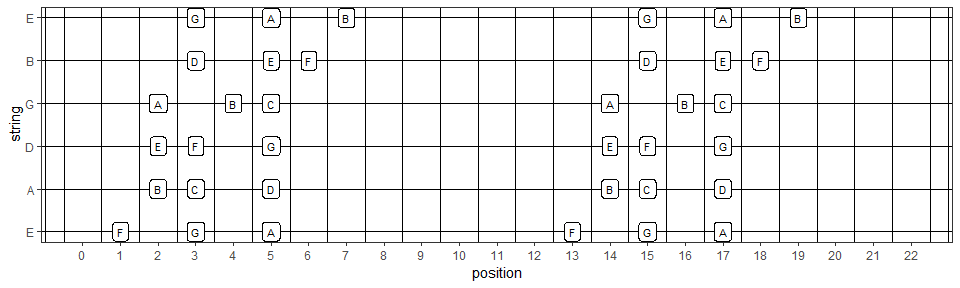
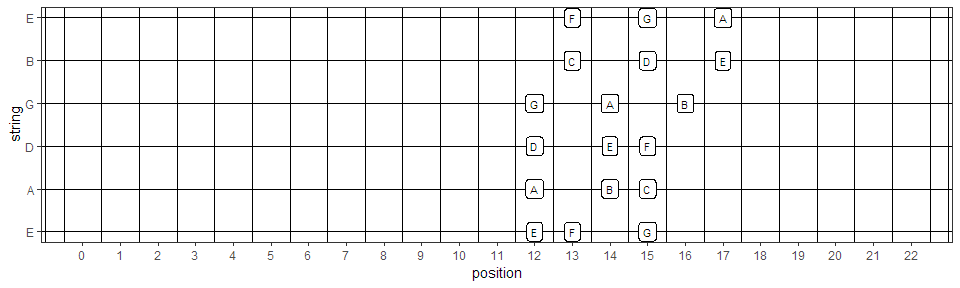
Updated readme and package

diff --git a/README.md b/README.md
@@ -6,6 +6,15 @@ Introduction
 
 Find the positioning of different modes on your guitar. Indicate which chords can be played in the choosen mode/tune and indicate the position of ground notes. Functions defined as R package complemented with a Shiny app for interactive usage.
 
+Installation
+------------
+
+Using devtools the package can be installed from github:
+
+install.packages("devtools")
+library(devtools)
+install\_github("RoJoRZ/GuitarModes")
+
 Package functionality
 ---------------------
 
@@ -17,10 +26,7 @@ Done:
 2.  GetPosition: Get all positions of a certain note (with flexible tuning)
 3.  GetMode: Get mode positions and tones (at standard tuning)
 4.  CombineModes: Start with a mode in a tune and get the positions of the other modes
-
-<!-- -->
-
-1.  GuitarPlot: Plot Guitar with flexible label size, number of frets, first and last fret to show
+5.  GuitarPlot: Plot Guitar with flexible label size, number of frets, first and last fret to show
 
 Below we give some examples of the core functions
 
@@ -81,78 +87,50 @@ GuitarPlot(Ionian3, labsize = 3)
 
 ![](README_files/figure-markdown_github/unnamed-chunk-5-1.png)
 
-Get and plot the Dorian3 mode in D
+Get and plot the Ionian mode in C highlight the target notes (1,3,5) from D. Target 1 = target notes 1,3,5 and target 2 = target notes 1,3,5 and 7. Targetstart is the position of the chord in the base mode.
 
 ``` r
-Dorian3 <- GetMode(tune = "D",nfrets = 22,mode = "Dorian3")
-GuitarPlot(Dorian3, labsize = 3)
+Ionian3 <- GetMode(tune = "C",nfrets = 22,mode = "Ionian3")
+GuitarPlot(Ionian3, labsize = 3, target = 1, targetstart = 2)
 ```
 
 ![](README_files/figure-markdown_github/unnamed-chunk-6-1.png)
 
-Get and plot the Phrygian3 mode in E
+Get and plot the Ionian mode in C highlight the target notes (1,3,5,7) from E.
+
+``` r
+Ionian3 <- GetMode(tune = "C",nfrets = 22,mode = "Ionian3")
+GuitarPlot(Ionian3, labsize = 3, target = 2, targetstart = 3)
+```
+
+![](README_files/figure-markdown_github/unnamed-chunk-7-1.png)
+
+All the above is possible for each church mode: Ionian3, Dorian3, Phrygian3, Lydian3, MixoLydian3, Aeolian3, Locrian3. For example get and plot the Phrygian3 mode in E
 
 ``` r
 Phrygian3 <- GetMode(tune = "E",nfrets = 22,mode = "Phrygian3")
 GuitarPlot(Phrygian3, labsize = 3)
 ```
 
-![](README_files/figure-markdown_github/unnamed-chunk-7-1.png)
-
-Get and plot the Lydian3 mode in F
-
-``` r
-Lydian3 <- GetMode(tune = "F",nfrets = 22,mode = "Lydian3")
-GuitarPlot(Lydian3, labsize = 3)
-```
-
 ![](README_files/figure-markdown_github/unnamed-chunk-8-1.png)
 
-Get and plot the MixoLydian3 mode in G
+Now it is also possible to combine modes. For example get positions Ionian, Phrygian and Aeolian3 modes starting from C Ionian:
 
 ``` r
-MixoLydian3 <- GetMode(tune = "G",nfrets = 22,mode = "MixoLydian3")
-GuitarPlot(MixoLydian3, labsize = 3)
+Combine <- CombineModes(tune = "C",basemode = "Ionian3", modes = c("Phrygian3", "Aeolian3"))
+GuitarPlot(Combine)
 ```
 
 ![](README_files/figure-markdown_github/unnamed-chunk-9-1.png)
 
-Get and plot the Aeolian3 mode in A
+Again but now highlighting the target notes from the C7 chord:
 
 ``` r
-Aeolian3 <- GetMode(tune = "A",nfrets = 22,mode = "Aeolian3")
-GuitarPlot(Aeolian3, labsize = 3)
+Combine <- CombineModes(tune = "C",basemode = "Ionian3", modes = c("Phrygian3", "Aeolian3"))
+GuitarPlot(Combine, target = 2, targetstart = 1)
 ```
 
 ![](README_files/figure-markdown_github/unnamed-chunk-10-1.png)
-
-Get and plot the Locrian3 mode in B
-
-``` r
-Locrian3 <- GetMode(tune = "B",nfrets = 22,mode = "Locrian3")
-GuitarPlot(Locrian3, labsize = 3)
-```
-
-![](README_files/figure-markdown_github/unnamed-chunk-11-1.png)
-
-Get positions of all modes starting from a centain mode and tune
-
-``` r
-# Combine <- CombineModes(tune = "F",nfrets = 22,basemode = "Lydian3", modes = c("Ionian3"))
-Combine <- CombineModes(tune = "C",basemode = "Ionian3", modes = NULL)
-GuitarPlot(Combine)
-```
-
-![](README_files/figure-markdown_github/unnamed-chunk-12-1.png)
-
-Get positions of all modes starting from a centain mode and tune
-
-``` r
-Combine <- CombineModes(tune = "F",nfrets = 22, basemode = "Lydian3", modes = c("Ionian3"))
-GuitarPlot(Combine)
-```
-
-![](README_files/figure-markdown_github/unnamed-chunk-13-1.png)
 
 Or completely flexible generate any chord or setting in the plot
 
@@ -163,4 +141,4 @@ Ecord <- data.frame(string = c(1,2,3,4,5,6),
 GuitarPlot(Ecord, nfrets = 4, labsize = 4)
 ```
 
-![](README_files/figure-markdown_github/unnamed-chunk-14-1.png)
+![](README_files/figure-markdown_github/unnamed-chunk-11-1.png)
